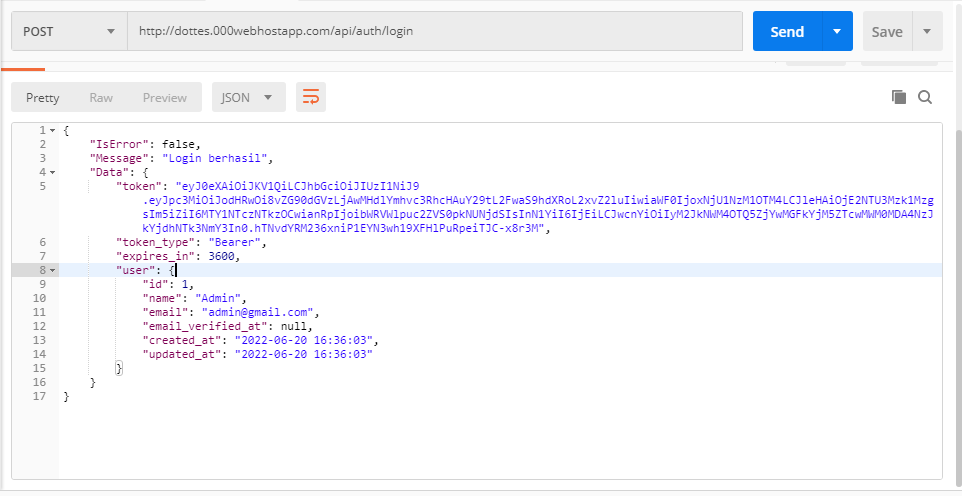
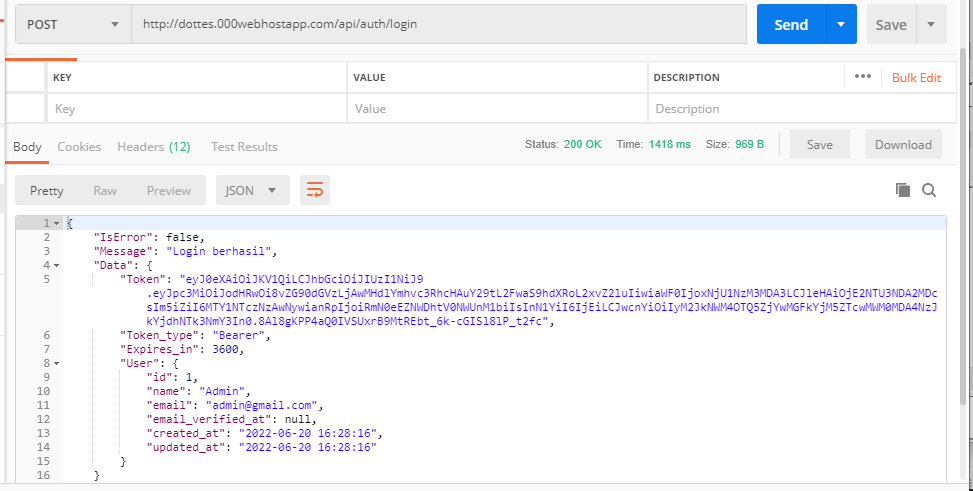
final commit

diff --git a/app/Http/Controllers/API/AuthController.php b/app/Http/Controllers/API/AuthController.php
@@ -40,10 +40,10 @@ class AuthController extends Controller
 
             if($token){
                 $generate = [
-                    'token' => $token,
-                    'token_type' => 'Bearer',
-                    'expires_in' => JWTAuth::factory()->getTTL() * 60,
-                    'user' => JWTAuth::user()
+                    'Token' => $token,
+                    'Token_type' => 'Bearer',
+                    'Expires_in' => JWTAuth::factory()->getTTL() * 60,
+                    'User' => JWTAuth::user()
                 ];
 
                 $data_json["IsError"] = FALSE;
@@ -90,10 +90,10 @@ class AuthController extends Controller
         $data_json;
         try {
             $generate = [
-                'token' => JWTAuth::refresh(),
-                'token_type' => 'Bearer',
-                'expires_in' => JWTAuth::factory()->getTTL() * 60,
-                'user' => JWTAuth::user()
+                'Token' => JWTAuth::refresh(),
+                'Token_type' => 'Bearer',
+                'Expires_in' => JWTAuth::factory()->getTTL() * 60,
+                'User' => JWTAuth::user()
             ];
     
             $data_json["IsError"] = FALSE;

diff --git a/README.md b/README.md
@@ -2,6 +2,7 @@
 <body>
 
 <p>Untuk screenshoot juga saya sertakan di folder screenshoot<p>
+<p>API ini juga saya deploy ke http://dottes.000webhostapp.com/</p>
 
 <h5>===DAFTAR SPRINT 1====</h5>
 <ol>
